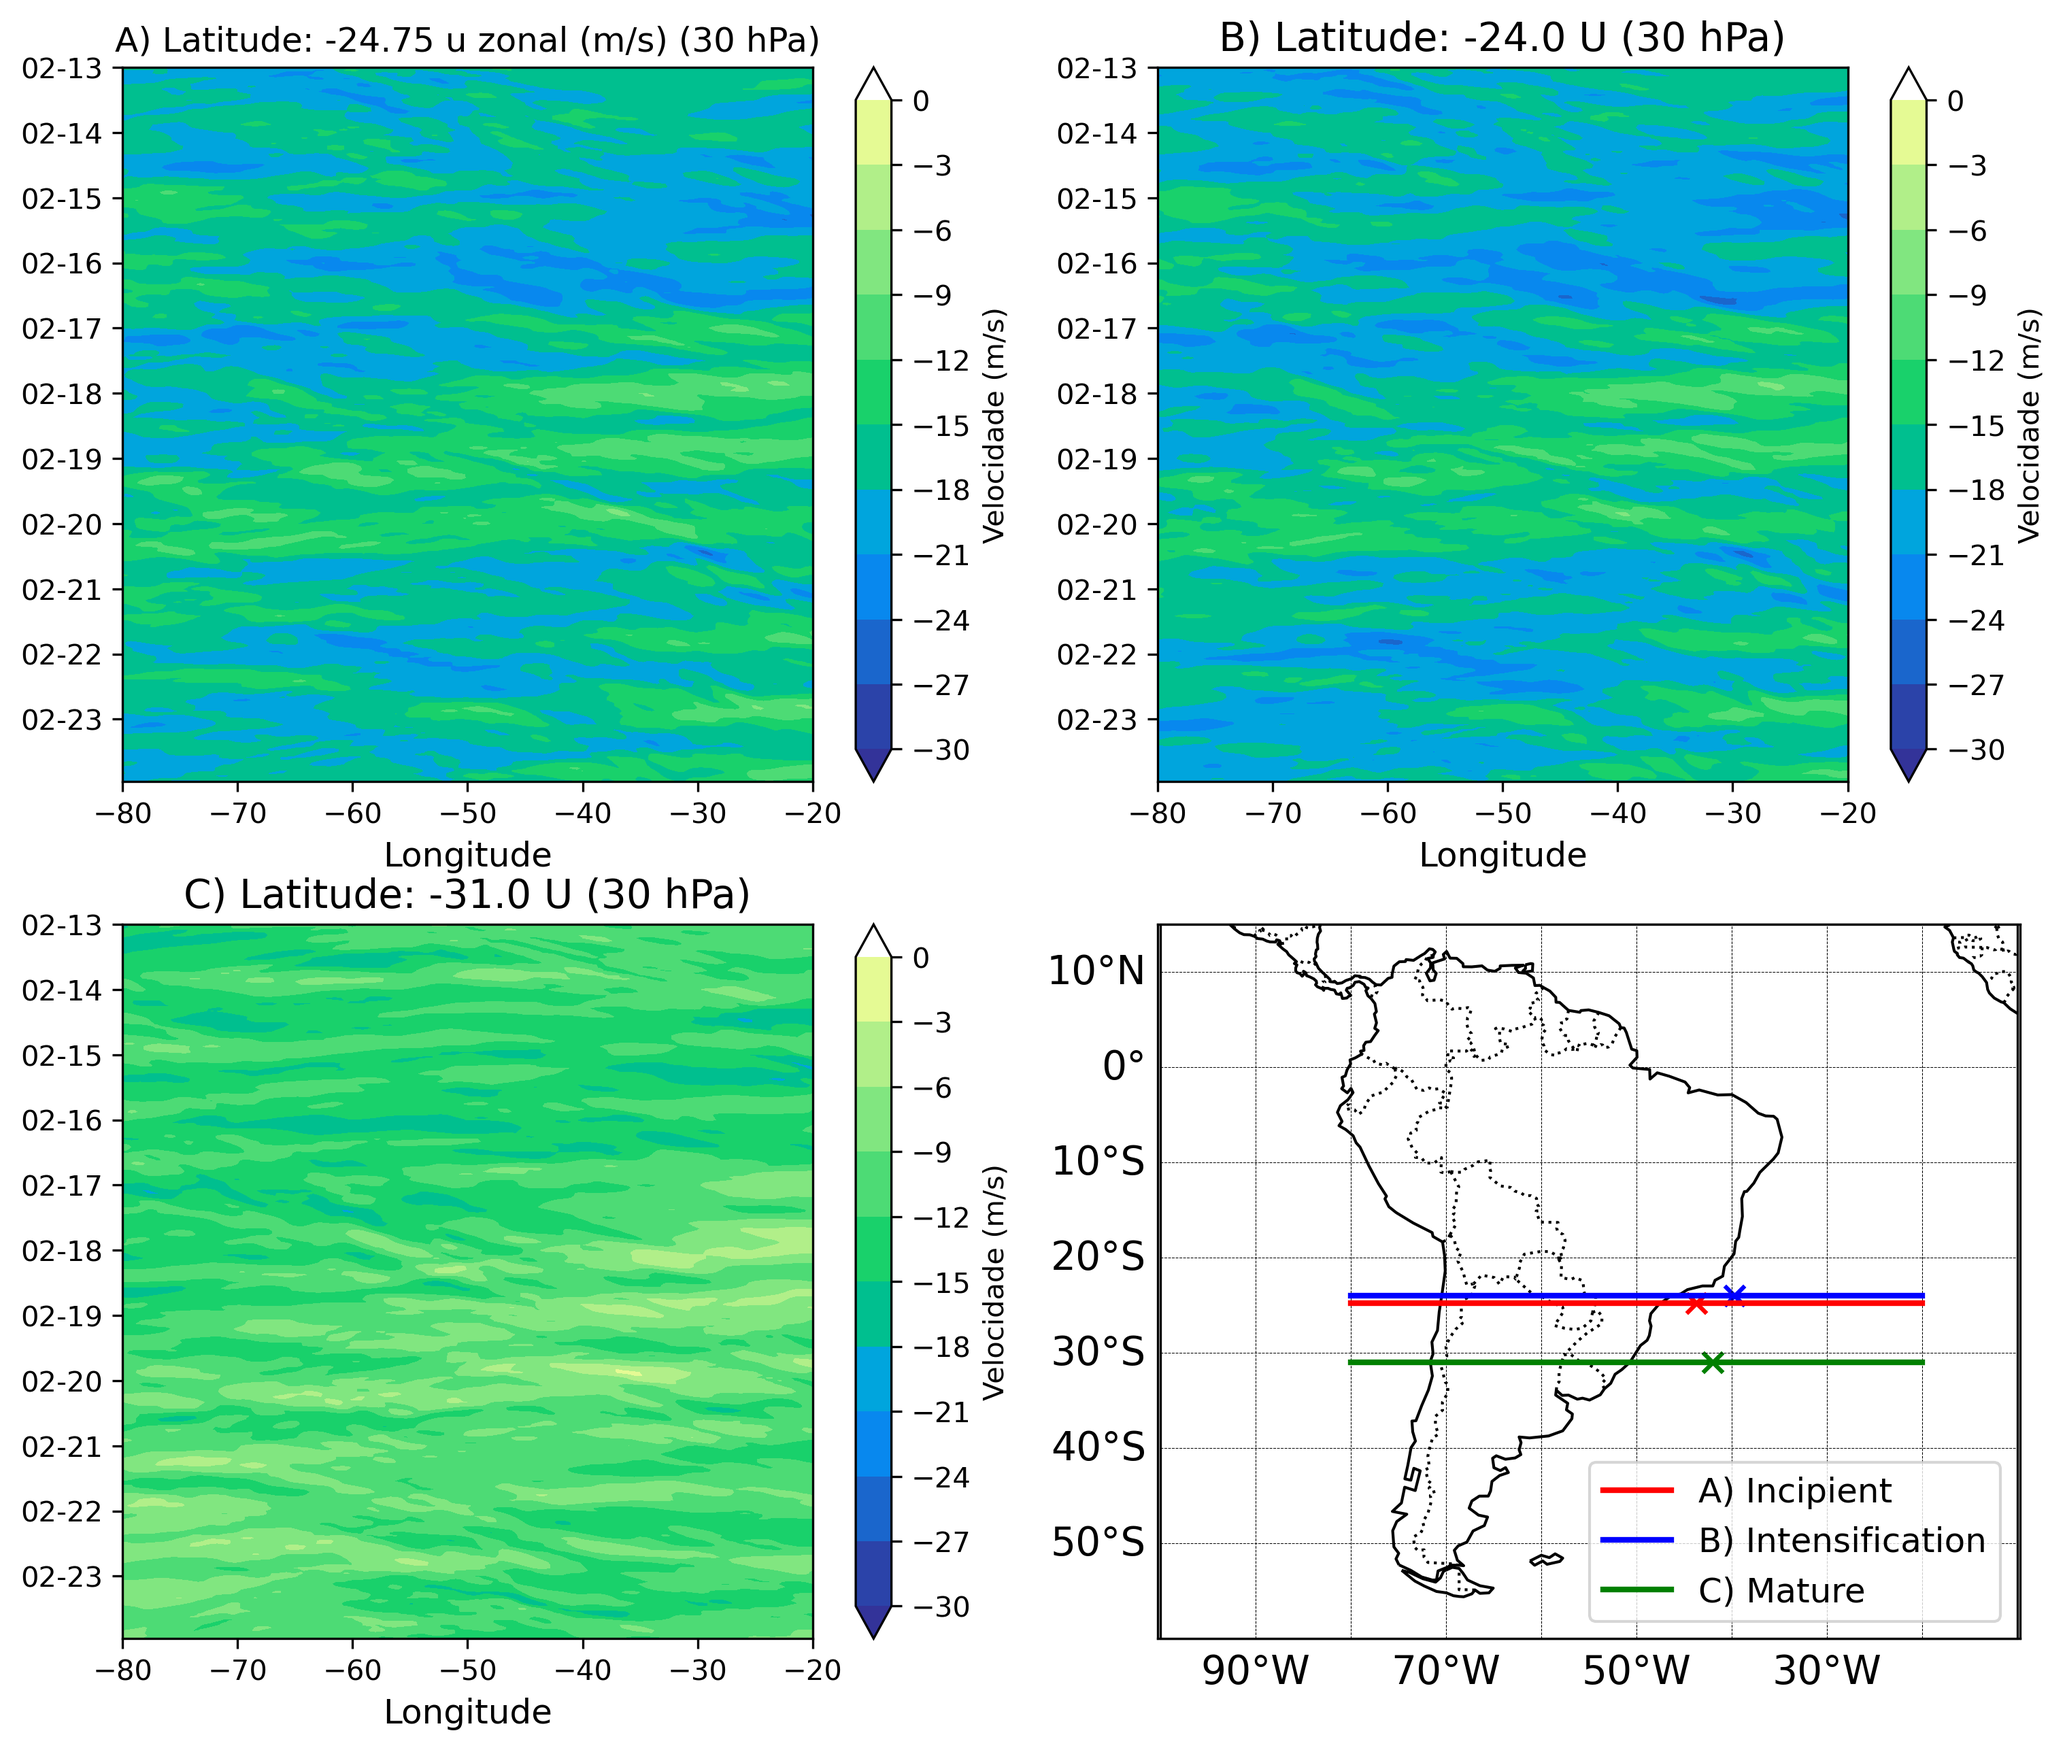
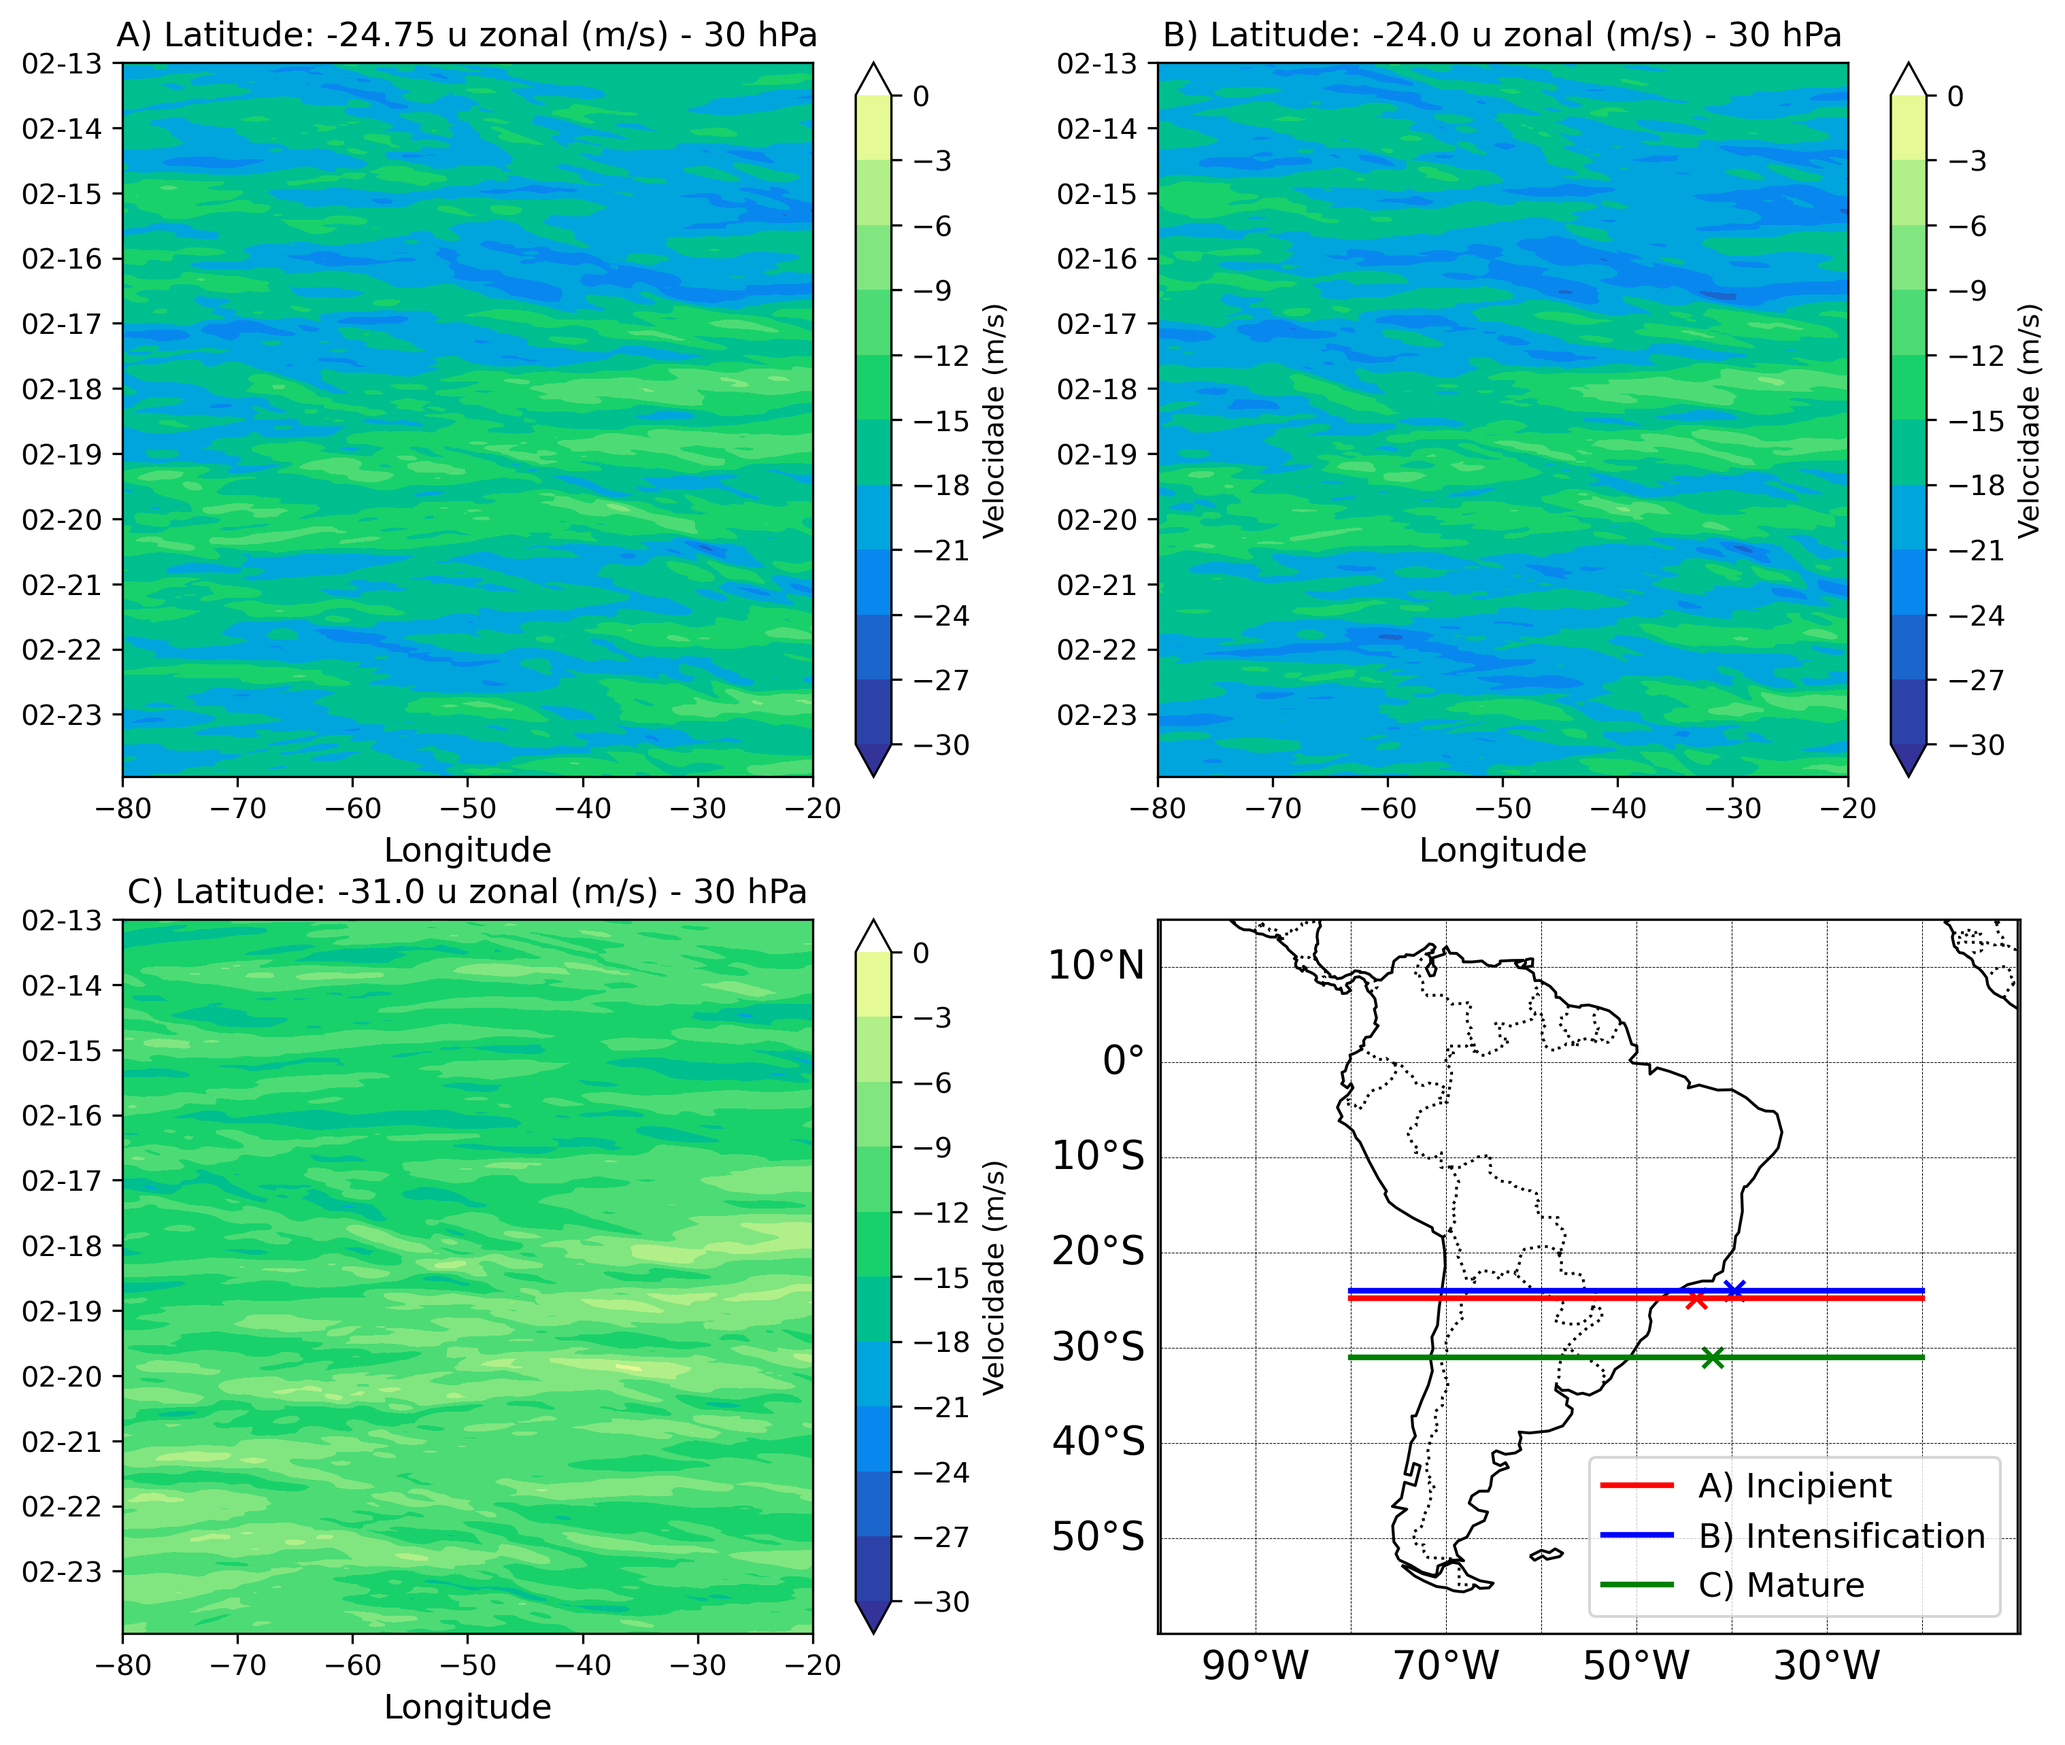
hovmoler

diff --git a/Akara/Charts/scripts/hov_u.py b/Akara/Charts/scripts/hov_u.py
@@ -68,7 +68,7 @@ d = ax[0, 0].contourf(df_u_30_0.columns,
                        extend='both', 
                        levels=np.arange(-30, 3, 3))
 
-ax[0, 0].set_title(f'A) Latitude: {latitudes[0]} u zonal (m/s) (30 hPa)', fontsize=12)
+ax[0, 0].set_title(f'A) Latitude: {latitudes[0]} u zonal (m/s) - 30 hPa', fontsize=12)
 ax[0, 0].set_xlabel('Longitude', fontsize=12)
 ax[0, 0].tick_params(axis='x', labelsize=10)
 ax[0, 0].tick_params(axis='y', labelsize=10)
@@ -94,7 +94,7 @@ df_u_30_1 = df_u_30_1.iloc[::-1, :]  # Invertendo o tempo
 c = ax[0, 1].contourf(df_u_30_1.columns, df_u_30_1.index,
                        df_u_30_1.values, cmap=cmap, norm=norm1,
                          extend='both', levels=np.arange(-30, 3, 3))
-ax[0, 1].set_title(f'B) Latitude: {latitudes[1]} U (30 hPa)', fontsize=14)
+ax[0, 1].set_title(f'B) Latitude: {latitudes[1]} u zonal (m/s) - 30 hPa', fontsize=12)
 ax[0, 1].set_xlabel('Longitude', fontsize=12)
 ax[0, 1].tick_params(axis='x', labelsize=10)
 ax[0, 1].tick_params(axis='y', labelsize=10)
@@ -115,7 +115,7 @@ df_u_30_2 = df_u_30_2.iloc[::-1, :]  # Invertendo o tempo
 # Plotando o terceiro subplot
 e = ax[1, 0].contourf(df_u_30_2.columns, df_u_30_2.index, df_u_30_2.values,
                        cmap=cmap, norm=norm2, extend='both', levels=np.arange(-30, 3, 3))
-ax[1, 0].set_title(f'C) Latitude: {latitudes[2]} U (30 hPa)', fontsize=14)
+ax[1, 0].set_title(f'C) Latitude: {latitudes[2]} u zonal (m/s) - 30 hPa', fontsize=12)
 ax[1, 0].set_xlabel('Longitude', fontsize=12)
 ax[1, 0].tick_params(axis='x', labelsize=10)
 ax[1, 0].tick_params(axis='y', labelsize=10)
